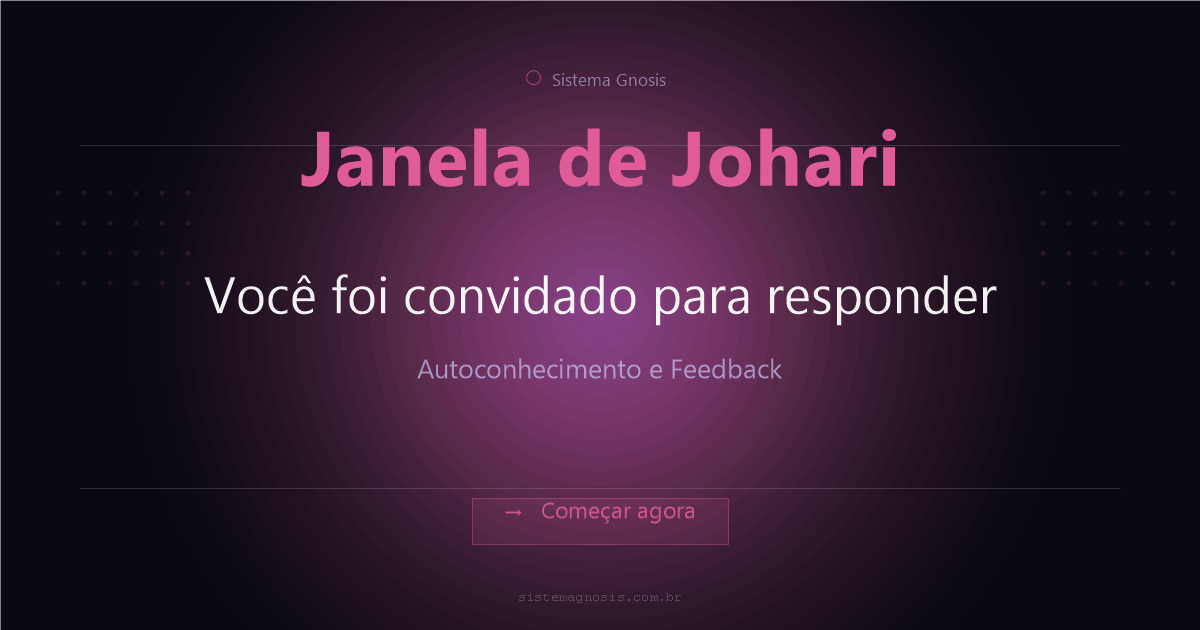
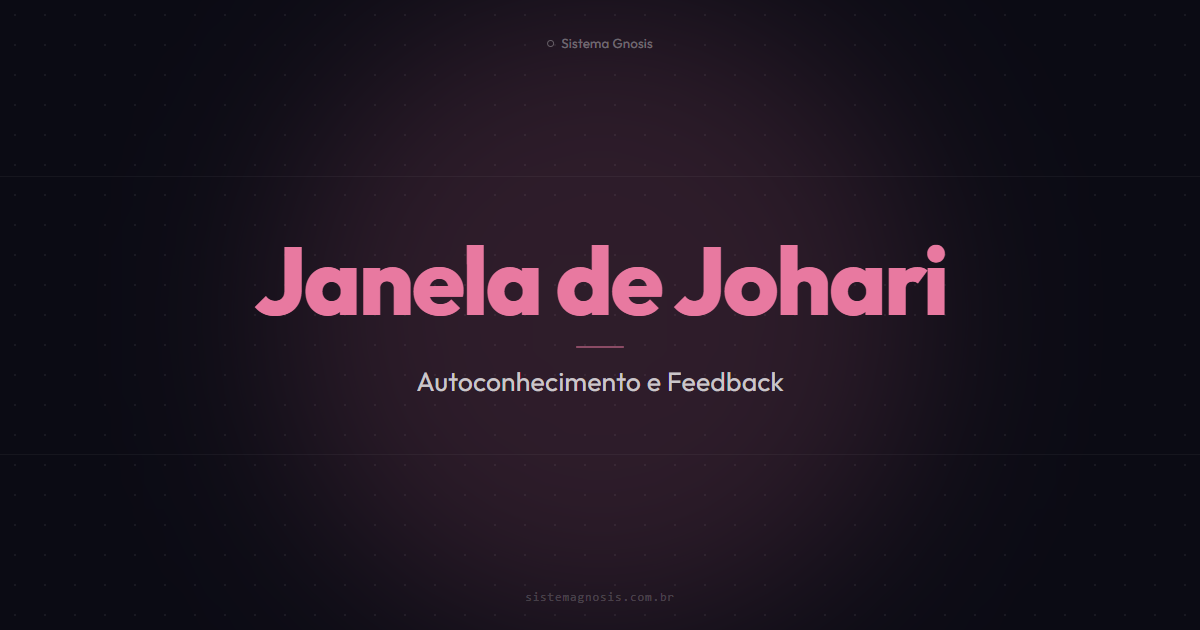
design(og): redesign das imagens de preview — layout limpo sem redundância
Remove "Você foi convidado para responder" e o botão fake das OG images.
Novo layout: nome da matriz + divisor + subtítulo descritivo. Sem texto
genérico. Adiciona script de geração automática via Puppeteer.

diff --git a/scripts/og-gen.html b/scripts/og-gen.html
@@ -1,0 +1,179 @@
+<!DOCTYPE html>
+<html lang="pt-BR">
+<head>
+<meta charset="UTF-8">
+<title>OG Generator — Sistema Gnosis</title>
+<link href="https://fonts.googleapis.com/css2?family=Outfit:wght@400;600;700;800&display=swap" rel="stylesheet">
+<script src="https://cdnjs.cloudflare.com/ajax/libs/html2canvas/1.4.1/html2canvas.min.js"></script>
+<style>
+  * { box-sizing: border-box; margin: 0; padding: 0; }
+  body { background: #111120; font-family: 'Outfit', sans-serif; padding: 2.5rem; color: white; }
+  h1 { font-size: 1.2rem; font-weight: 600; color: rgba(255,255,255,0.5); margin-bottom: 2.5rem; letter-spacing: 0.05em; text-transform: uppercase; }
+  .grid { display: flex; flex-direction: column; gap: 2.5rem; }
+  .item { display: flex; flex-direction: column; gap: 0.75rem; }
+  .item-label { font-size: 0.75rem; color: rgba(255,255,255,0.3); letter-spacing: 0.1em; text-transform: uppercase; }
+  .card-wrap { width: 1200px; height: 630px; overflow: hidden; border-radius: 8px; }
+
+  /* ── OG CARD ────────────────────────────── */
+  .og-card {
+    width: 1200px; height: 630px;
+    background: #0b0b14;
+    display: flex; flex-direction: column;
+    align-items: center; justify-content: center;
+    position: relative; overflow: hidden;
+    font-family: 'Outfit', sans-serif;
+  }
+  .og-dots {
+    position: absolute; inset: 0;
+    background-image: radial-gradient(circle, rgba(255,255,255,0.06) 1px, transparent 1px);
+    background-size: 30px 30px;
+  }
+  .og-glow {
+    position: absolute; top: 50%; left: 50%;
+    transform: translate(-50%, -50%);
+    width: 640px; height: 640px; border-radius: 50%;
+    opacity: 0.16; filter: blur(90px);
+    pointer-events: none;
+  }
+  .og-line {
+    position: absolute; left: 0; right: 0; height: 1px;
+    background: rgba(255,255,255,0.045);
+  }
+  .og-brand {
+    position: absolute; top: 2.2rem; left: 50%; transform: translateX(-50%);
+    display: flex; align-items: center; gap: 0.45rem;
+    font-size: 0.82rem; color: rgba(255,255,255,0.35);
+    z-index: 10; white-space: nowrap; letter-spacing: 0.02em;
+  }
+  .og-brand-dot {
+    width: 7px; height: 7px; border-radius: 50%;
+    border: 1.5px solid rgba(255,255,255,0.3);
+    flex-shrink: 0;
+  }
+  .og-content {
+    position: relative; z-index: 10;
+    text-align: center; display: flex;
+    flex-direction: column; align-items: center;
+  }
+  .og-name {
+    font-size: 6rem; font-weight: 800;
+    line-height: 1; letter-spacing: -0.03em;
+    margin-bottom: 1.1rem;
+  }
+  .og-divider {
+    width: 48px; height: 2px; border-radius: 2px;
+    margin-bottom: 1.1rem; opacity: 0.5;
+  }
+  .og-sub {
+    font-size: 1.65rem; font-weight: 400;
+    color: rgba(255,255,255,0.75);
+    letter-spacing: 0.01em;
+  }
+  .og-domain {
+    position: absolute; bottom: 1.6rem; left: 50%; transform: translateX(-50%);
+    font-size: 0.72rem; color: rgba(255,255,255,0.18);
+    letter-spacing: 0.1em; font-family: monospace;
+    z-index: 10; white-space: nowrap;
+  }
+
+  /* ── DOWNLOAD BTN ───────────────────────── */
+  .btn-dl {
+    align-self: flex-start;
+    padding: 0.55rem 1.25rem;
+    background: rgba(255,255,255,0.07);
+    border: 1px solid rgba(255,255,255,0.12);
+    border-radius: 8px; color: rgba(255,255,255,0.7);
+    font-size: 0.82rem; cursor: pointer;
+    font-family: 'Outfit', sans-serif;
+    transition: background 0.2s, color 0.2s;
+  }
+  .btn-dl:hover { background: rgba(255,255,255,0.14); color: white; }
+  .btn-dl:active { transform: scale(0.98); }
+
+  .btn-all {
+    margin-bottom: 2.5rem;
+    padding: 0.7rem 2rem;
+    background: rgba(124,106,247,0.15);
+    border: 1px solid rgba(124,106,247,0.3);
+    border-radius: 8px; color: #a89ef8;
+    font-size: 0.9rem; cursor: pointer;
+    font-family: 'Outfit', sans-serif;
+    font-weight: 600; transition: background 0.2s;
+  }
+  .btn-all:hover { background: rgba(124,106,247,0.25); }
+</style>
+</head>
+<body>
+<h1>OG Image Generator — Sistema Gnosis</h1>
+<button class="btn-all" onclick="baixarTodos()">Baixar todas as imagens</button>
+<div class="grid" id="grid"></div>
+
+<script>
+const matrizes = [
+  { key: 'disc',    nome: 'DISC',                sub: 'Perfil Comportamental',       cor: '#7c6af7' },
+  { key: 'soar',   nome: 'SOAR',                sub: 'Análise Estratégica Pessoal',  cor: '#2EC4A0' },
+  { key: 'ikigai', nome: 'Ikigai',              sub: 'Propósito de Vida e Carreira', cor: '#f5a623' },
+  { key: 'ancoras',nome: 'Âncoras de Carreira', sub: 'Motivadores Profissionais',    cor: '#4a9eff' },
+  { key: 'johari', nome: 'Janela de Johari',    sub: 'Autoconhecimento e Feedback',  cor: '#e879a0' },
+  { key: 'bigfive',nome: 'Big Five',            sub: 'Os Cinco Grandes Traços',      cor: '#5b9bf7' },
+  { key: 'pearson',nome: 'Pearson-Marr',        sub: 'Estilos de Pensamento',        cor: '#00bcd4' },
+  { key: 'tci',    nome: 'TCI',                 sub: 'Temperamento e Caráter',       cor: '#c9a800' },
+];
+
+const grid = document.getElementById('grid');
+
+matrizes.forEach(m => {
+  const item = document.createElement('div');
+  item.className = 'item';
+  item.innerHTML = `
+    <div class="item-label">${m.key} &rarr; og-${m.key}.png</div>
+    <div class="card-wrap">
+      <div class="og-card" id="card-${m.key}">
+        <div class="og-dots"></div>
+        <div class="og-glow" style="background:${m.cor};"></div>
+        <div class="og-line" style="top:28%;"></div>
+        <div class="og-line" style="top:72%;"></div>
+        <div class="og-brand">
+          <div class="og-brand-dot"></div>
+          Sistema Gnosis
+        </div>
+        <div class="og-content">
+          <div class="og-name" style="color:${m.cor};">${m.nome}</div>
+          <div class="og-divider" style="background:${m.cor};"></div>
+          <div class="og-sub">${m.sub}</div>
+        </div>
+        <div class="og-domain">sistemagnosis.com.br</div>
+      </div>
+    </div>
+    <button class="btn-dl" onclick="baixar('${m.key}')">↓ Baixar og-${m.key}.png</button>
+  `;
+  grid.appendChild(item);
+});
+
+async function baixar(key) {
+  await document.fonts.ready;
+  const el = document.getElementById('card-' + key);
+  const canvas = await html2canvas(el, {
+    scale: 1,
+    width: 1200,
+    height: 630,
+    useCORS: true,
+    allowTaint: true,
+    backgroundColor: '#0b0b14',
+    logging: false,
+  });
+  const link = document.createElement('a');
+  link.download = 'og-' + key + '.png';
+  link.href = canvas.toDataURL('image/png');
+  link.click();
+}
+
+async function baixarTodos() {
+  for (const m of matrizes) {
+    await baixar(m.key);
+    await new Promise(r => setTimeout(r, 400));
+  }
+}
+</script>
+</body>
+</html>

diff --git a/scripts/gerar-og.js b/scripts/gerar-og.js
@@ -1,0 +1,124 @@
+const puppeteer = require('puppeteer');
+const path = require('path');
+const fs = require('fs');
+
+const matrizes = [
+  { key: 'disc',    nome: 'DISC',                sub: 'Perfil Comportamental',       cor: '#7c6af7' },
+  { key: 'soar',   nome: 'SOAR',                sub: 'Análise Estratégica Pessoal',  cor: '#2EC4A0' },
+  { key: 'ikigai', nome: 'Ikigai',              sub: 'Propósito de Vida e Carreira', cor: '#f5a623' },
+  { key: 'ancoras',nome: 'Âncoras de Carreira', sub: 'Motivadores Profissionais',    cor: '#4a9eff' },
+  { key: 'johari', nome: 'Janela de Johari',    sub: 'Autoconhecimento e Feedback',  cor: '#e879a0' },
+  { key: 'bigfive',nome: 'Big Five',            sub: 'Os Cinco Grandes Traços',      cor: '#5b9bf7' },
+  { key: 'pearson',nome: 'Pearson-Marr',        sub: 'Estilos de Pensamento',        cor: '#00bcd4' },
+  { key: 'tci',    nome: 'TCI',                 sub: 'Temperamento e Caráter',       cor: '#c9a800' },
+];
+
+const OUTPUT_DIR = path.join(__dirname, '..');
+
+function buildHtml(m) {
+  return `<!DOCTYPE html>
+<html lang="pt-BR">
+<head>
+<meta charset="UTF-8">
+<link href="https://fonts.googleapis.com/css2?family=Outfit:wght@400;600;700;800&display=swap" rel="stylesheet">
+<style>
+* { margin:0; padding:0; box-sizing:border-box; }
+body { width:1200px; height:630px; overflow:hidden; }
+.card {
+  width:1200px; height:630px;
+  background:#0b0b14;
+  display:flex; flex-direction:column;
+  align-items:center; justify-content:center;
+  position:relative; overflow:hidden;
+  font-family:'Outfit',sans-serif;
+}
+.dots {
+  position:absolute; inset:0;
+  background-image:radial-gradient(circle,rgba(255,255,255,0.06) 1px,transparent 1px);
+  background-size:30px 30px;
+}
+.glow {
+  position:absolute; top:50%; left:50%;
+  transform:translate(-50%,-50%);
+  width:640px; height:640px; border-radius:50%;
+  background:${m.cor};
+  opacity:0.16; filter:blur(90px);
+}
+.line {
+  position:absolute; left:0; right:0; height:1px;
+  background:rgba(255,255,255,0.045);
+}
+.brand {
+  position:absolute; top:2.2rem; left:50%; transform:translateX(-50%);
+  display:flex; align-items:center; gap:0.45rem;
+  font-size:0.82rem; color:rgba(255,255,255,0.35);
+  z-index:10; white-space:nowrap; letter-spacing:0.02em;
+}
+.brand-dot {
+  width:7px; height:7px; border-radius:50%;
+  border:1.5px solid rgba(255,255,255,0.3); flex-shrink:0;
+}
+.content {
+  position:relative; z-index:10;
+  text-align:center; display:flex;
+  flex-direction:column; align-items:center;
+}
+.nome {
+  font-size:6rem; font-weight:800;
+  line-height:1; letter-spacing:-0.03em;
+  color:${m.cor}; margin-bottom:1.1rem;
+}
+.divider {
+  width:48px; height:2px; border-radius:2px;
+  background:${m.cor}; opacity:0.5; margin-bottom:1.1rem;
+}
+.sub {
+  font-size:1.65rem; font-weight:400;
+  color:rgba(255,255,255,0.75); letter-spacing:0.01em;
+}
+.domain {
+  position:absolute; bottom:1.6rem; left:50%; transform:translateX(-50%);
+  font-size:0.72rem; color:rgba(255,255,255,0.18);
+  letter-spacing:0.1em; font-family:monospace; z-index:10; white-space:nowrap;
+}
+</style>
+</head>
+<body>
+<div class="card">
+  <div class="dots"></div>
+  <div class="glow"></div>
+  <div class="line" style="top:28%;"></div>
+  <div class="line" style="top:72%;"></div>
+  <div class="brand"><div class="brand-dot"></div>Sistema Gnosis</div>
+  <div class="content">
+    <div class="nome">${m.nome}</div>
+    <div class="divider"></div>
+    <div class="sub">${m.sub}</div>
+  </div>
+  <div class="domain">sistemagnosis.com.br</div>
+</div>
+</body>
+</html>`;
+}
+
+(async () => {
+  const browser = await puppeteer.launch({ headless: 'new', args: ['--no-sandbox'] });
+  const page = await browser.newPage();
+  await page.setViewport({ width: 1200, height: 630, deviceScaleFactor: 1 });
+
+  // carrega fonte uma vez
+  await page.setContent(buildHtml(matrizes[0]), { waitUntil: 'networkidle0', timeout: 60000 });
+  await page.evaluate(() => document.fonts.ready);
+
+  for (const m of matrizes) {
+    process.stdout.write(`Gerando og-${m.key}.png... `);
+    await page.setContent(buildHtml(m), { waitUntil: 'domcontentloaded', timeout: 30000 });
+    await page.evaluate(() => document.fonts.ready);
+    const outPath = path.join(OUTPUT_DIR, `og-${m.key}.png`);
+    await page.screenshot({ path: outPath, type: 'png', clip: { x:0, y:0, width:1200, height:630 } });
+    console.log('OK');
+  }
+
+  await browser.close();
+  console.log('\nTodas as imagens geradas com sucesso.');
+})();
